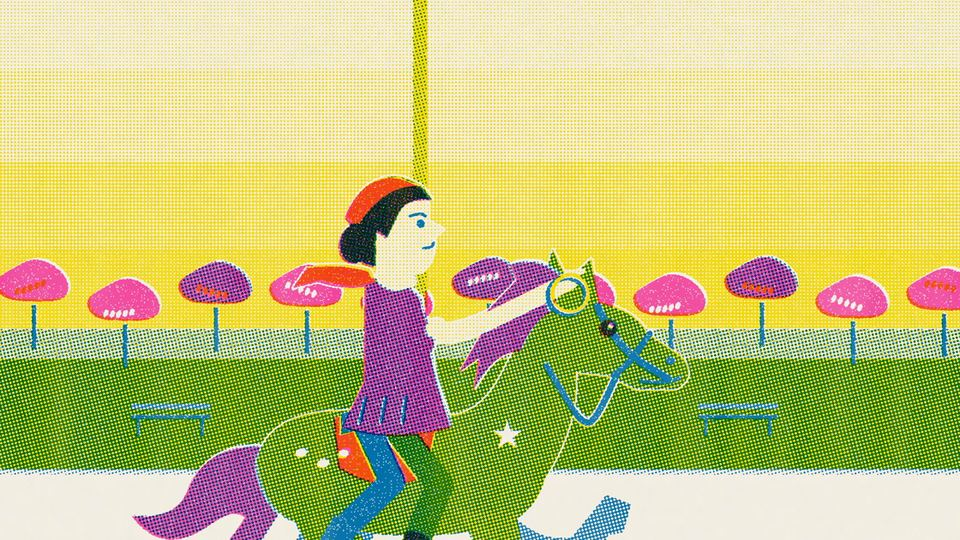
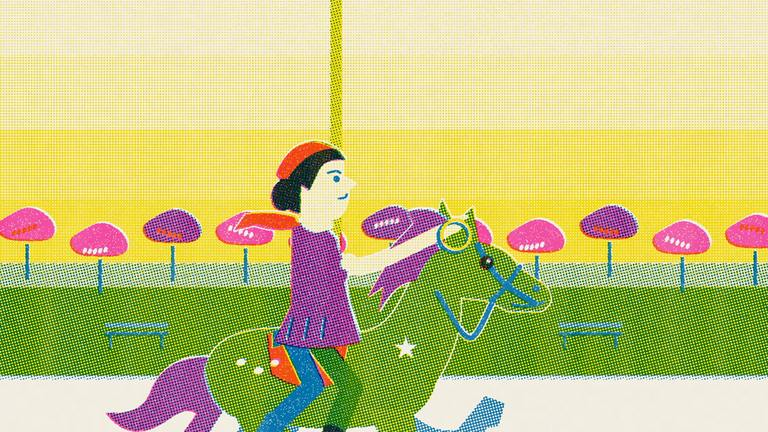
Serve the press artwork from its pinned impression

diff --git a/styles/risograph/showcase/index.html b/styles/risograph/showcase/index.html
@@ -5,6 +5,7 @@
 <title>Midway Press · Risograph Print | Codex Film Studio</title>
 <meta name="description" content="Pull a three-colour carousel print, then watch One More Turn and Bell Hop, two original English risograph shorts.">
 <meta name="theme-color" content="#f6f1e6">
+<link rel="preconnect" href="https://raw.githubusercontent.com" crossorigin>
 <link rel="stylesheet" href="press.css">
 <script type="module" src="press.mjs"></script>
 <script type="module" src="../../../catalog/agent-start.mjs"></script>
@@ -27,15 +28,15 @@
    <div class="underlay" aria-hidden="true"></div>
    <figure class="sheet proofsheet">
     <div class="mat">
-     <img class="plate base" src="proof-0.webp" width="1440" height="810" data-alt-zh="蓝墨印出的木马、女孩和摩天轮" alt="The rider, horse and Ferris wheel printed in blue ink">
-     <img class="plate yellow" src="proof-1.webp" width="1440" height="810" alt="">
-     <img class="plate pink" src="proof-2.webp" width="1440" height="810" alt="">
+     <img class="plate base" src="https://raw.githubusercontent.com/leoguolabs/codex-film-studio/2dd70da47ed5bea1f207b14adc436446aec64411/styles/risograph/showcase/proof-0.webp" width="1440" height="810" data-alt-zh="蓝墨印出的木马、女孩和摩天轮" alt="The rider, horse and Ferris wheel printed in blue ink">
+     <img class="plate yellow" src="https://raw.githubusercontent.com/leoguolabs/codex-film-studio/2dd70da47ed5bea1f207b14adc436446aec64411/styles/risograph/showcase/proof-1.webp" width="1440" height="810" alt="">
+     <img class="plate pink" src="https://raw.githubusercontent.com/leoguolabs/codex-film-studio/2dd70da47ed5bea1f207b14adc436446aec64411/styles/risograph/showcase/proof-2.webp" width="1440" height="810" alt="">
      <canvas class="live-print" width="1440" height="810" aria-hidden="true" hidden></canvas>
     </div>
     <figcaption><b>ONE MORE TURN</b><span class="proof-label">BLUE + YELLOW + PINK</span></figcaption>
    </figure>
    <figure class="sheet cover-sheet" aria-hidden="true">
-    <div class="mat"><img src="proof-2.webp" width="1440" height="810" alt="" fetchpriority="high"></div>
+    <div class="mat"><img src="https://raw.githubusercontent.com/leoguolabs/codex-film-studio/2dd70da47ed5bea1f207b14adc436446aec64411/styles/risograph/showcase/proof-2.webp" width="1440" height="810" alt="" fetchpriority="high"></div>
     <figcaption><b>ONE MORE TURN</b><span>THE MIDWAY PRESS</span></figcaption>
    </figure>
   </div>
@@ -48,9 +49,9 @@
 <section id="screening" class="screening">
  <div class="wrap">
   <div class="section-title"><div><p class="kicker" data-zh="双片连映">A double feature</p><h2 data-zh="小小放映场">Picture show</h2></div><span class="format" data-zh="英文原声 · 24 帧／秒">English audio · 24 fps</span></div>
-  <div class="programme" aria-label="Films"><button data-film="turn" aria-pressed="true"><img src="turn.webp" width="896" height="504" alt=""><span><b>One More Turn</b><small data-zh="再坐一圈 · 40 秒">A brass-ring story · 40 sec</small></span></button>
-   <button data-film="bell" aria-pressed="false"><img src="bell.webp" width="896" height="504" alt=""><span><b>Bell Hop</b><small data-zh="叮咚，客到 · 27 秒">At the night desk · 27 sec</small></span></button></div>
-  <div class="screen-layout"><div class="projection"><video id="movie" controls playsinline preload="none" width="1280" height="720" poster="turn.webp" aria-label="One More Turn"></video></div>
+  <div class="programme" aria-label="Films"><button data-film="turn" aria-pressed="true"><img src="https://raw.githubusercontent.com/leoguolabs/codex-film-studio/2dd70da47ed5bea1f207b14adc436446aec64411/styles/risograph/showcase/turn.webp" width="896" height="504" alt=""><span><b>One More Turn</b><small data-zh="再坐一圈 · 40 秒">A brass-ring story · 40 sec</small></span></button>
+   <button data-film="bell" aria-pressed="false"><img src="https://raw.githubusercontent.com/leoguolabs/codex-film-studio/2dd70da47ed5bea1f207b14adc436446aec64411/styles/risograph/showcase/bell.webp" width="896" height="504" alt=""><span><b>Bell Hop</b><small data-zh="叮咚，客到 · 27 秒">At the night desk · 27 sec</small></span></button></div>
+  <div class="screen-layout"><div class="projection"><video id="movie" controls playsinline preload="none" width="1280" height="720" poster="https://raw.githubusercontent.com/leoguolabs/codex-film-studio/2dd70da47ed5bea1f207b14adc436446aec64411/styles/risograph/showcase/turn.webp" aria-label="One More Turn"></video></div>
    <article class="film-notes"><h3 id="film-title">One More Turn</h3><p id="synopsis"></p><ol class="chapters" aria-label="Chapters"></ol><a id="mp4" data-zh="打开影片 MP4 ↗">Open film MP4 ↗</a></article></div>
  </div>
 </section>

diff --git a/styles/risograph/showcase/press.css b/styles/risograph/showcase/press.css
@@ -1,4 +1,4 @@
-@font-face{font-family:Press;src:url(press.woff2) format("woff2");font-weight:200 800;font-display:swap}
+@font-face{font-family:Press;src:url("https://raw.githubusercontent.com/leoguolabs/codex-film-studio/2dd70da47ed5bea1f207b14adc436446aec64411/styles/risograph/showcase/press.woff2") format("woff2");font-weight:200 800;font-display:swap}
 :root{--paper:#f6f1e6;--ink:#152e52;--blue:#006492;--pink:#eb5399;--yellow:#f8d731;--rule:#a6a198;--edge:clamp(20px,5.1vw,95px);--type:Press,"PingFang SC","Microsoft YaHei",system-ui,sans-serif;color:var(--ink);background:var(--paper);font-family:var(--type);font-synthesis:style}
 *{box-sizing:border-box}body,figure,h1,h2,h3,p{margin:0}body{overflow-x:clip;background-image:url(grain.png)}a{color:inherit;text-decoration-thickness:1px;text-underline-offset:.26em}button,select,audio{font:inherit}button,select{color:inherit}button,a,select,summary{-webkit-tap-highlight-color:transparent}button{cursor:pointer}button:focus-visible,a:focus-visible,select:focus-visible,summary:focus-visible{outline:3px solid #ca306e;outline-offset:4px}img{display:block;max-width:100%}
 .mast,footer{display:flex;justify-content:space-between;align-items:center;margin:0 var(--edge);border-bottom:1px solid var(--ink);height:64px;gap:16px}.mast a,footer a{text-decoration:none}.mast nav,.brand{display:flex;align-items:center}.mast nav{gap:clamp(12px,2.5vw,42px);font-size:.89rem;font-weight:650}.mast a:hover,footer a:hover,.screen-link:hover{text-decoration:underline}.brand{gap:11px;font-weight:800;letter-spacing:-.04em;font-size:1.23rem}.inks{display:flex;padding-right:4px;isolation:isolate}.inks i{width:18px;height:18px;border-radius:50%;background:#0582bc;mix-blend-mode:multiply}.inks i+i{margin-left:-5px;background:#ffde17}.inks i+i+i{background:#fd60af}.language{border-left:1px solid var(--rule);padding-left:clamp(12px,2vw,30px)}
